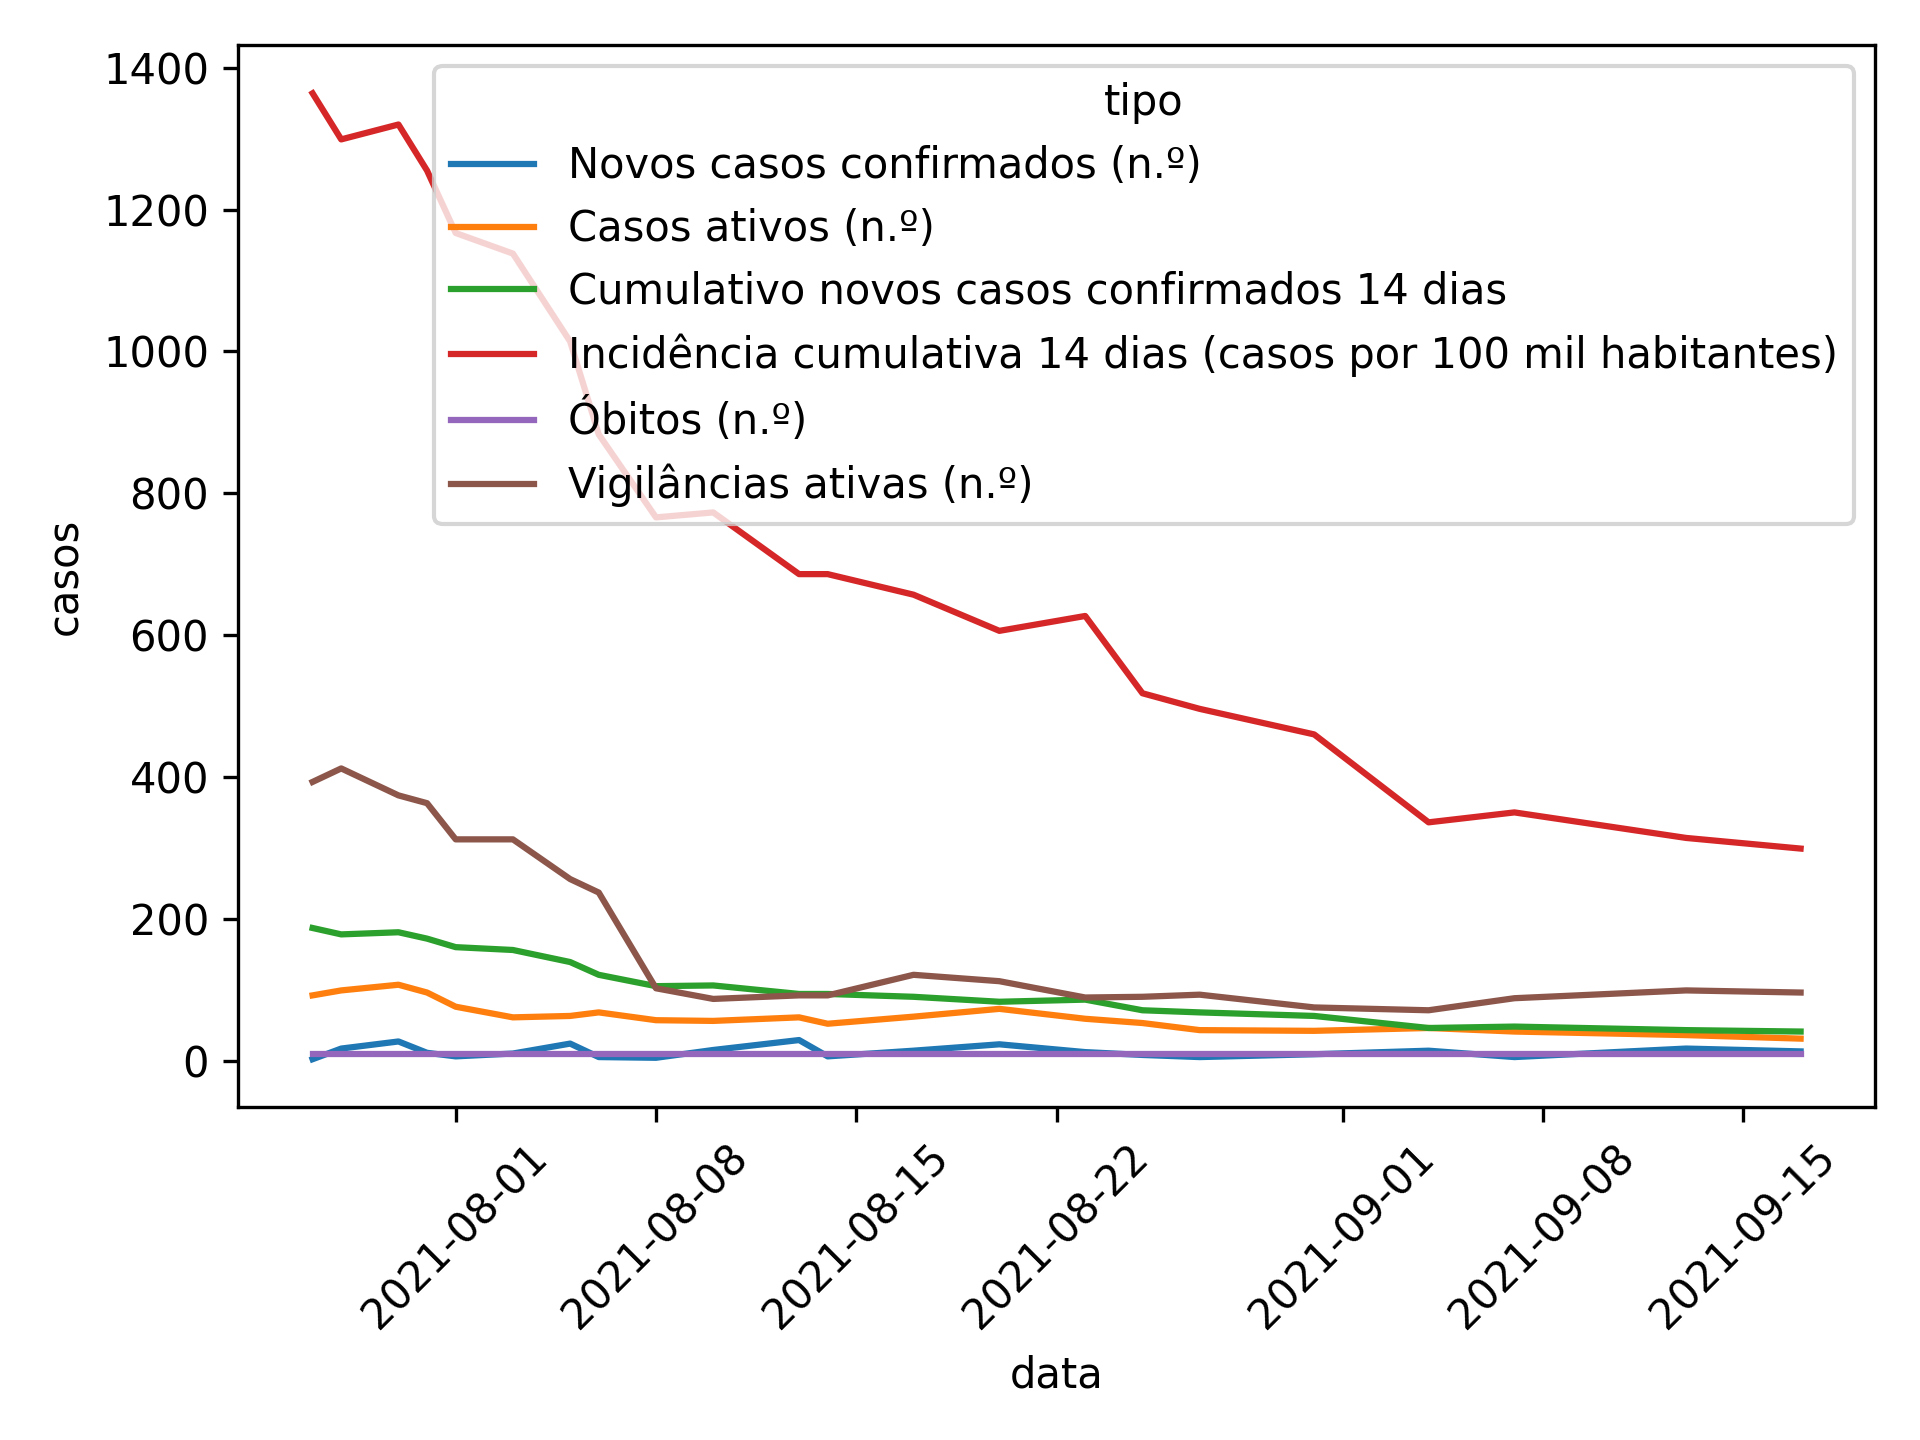
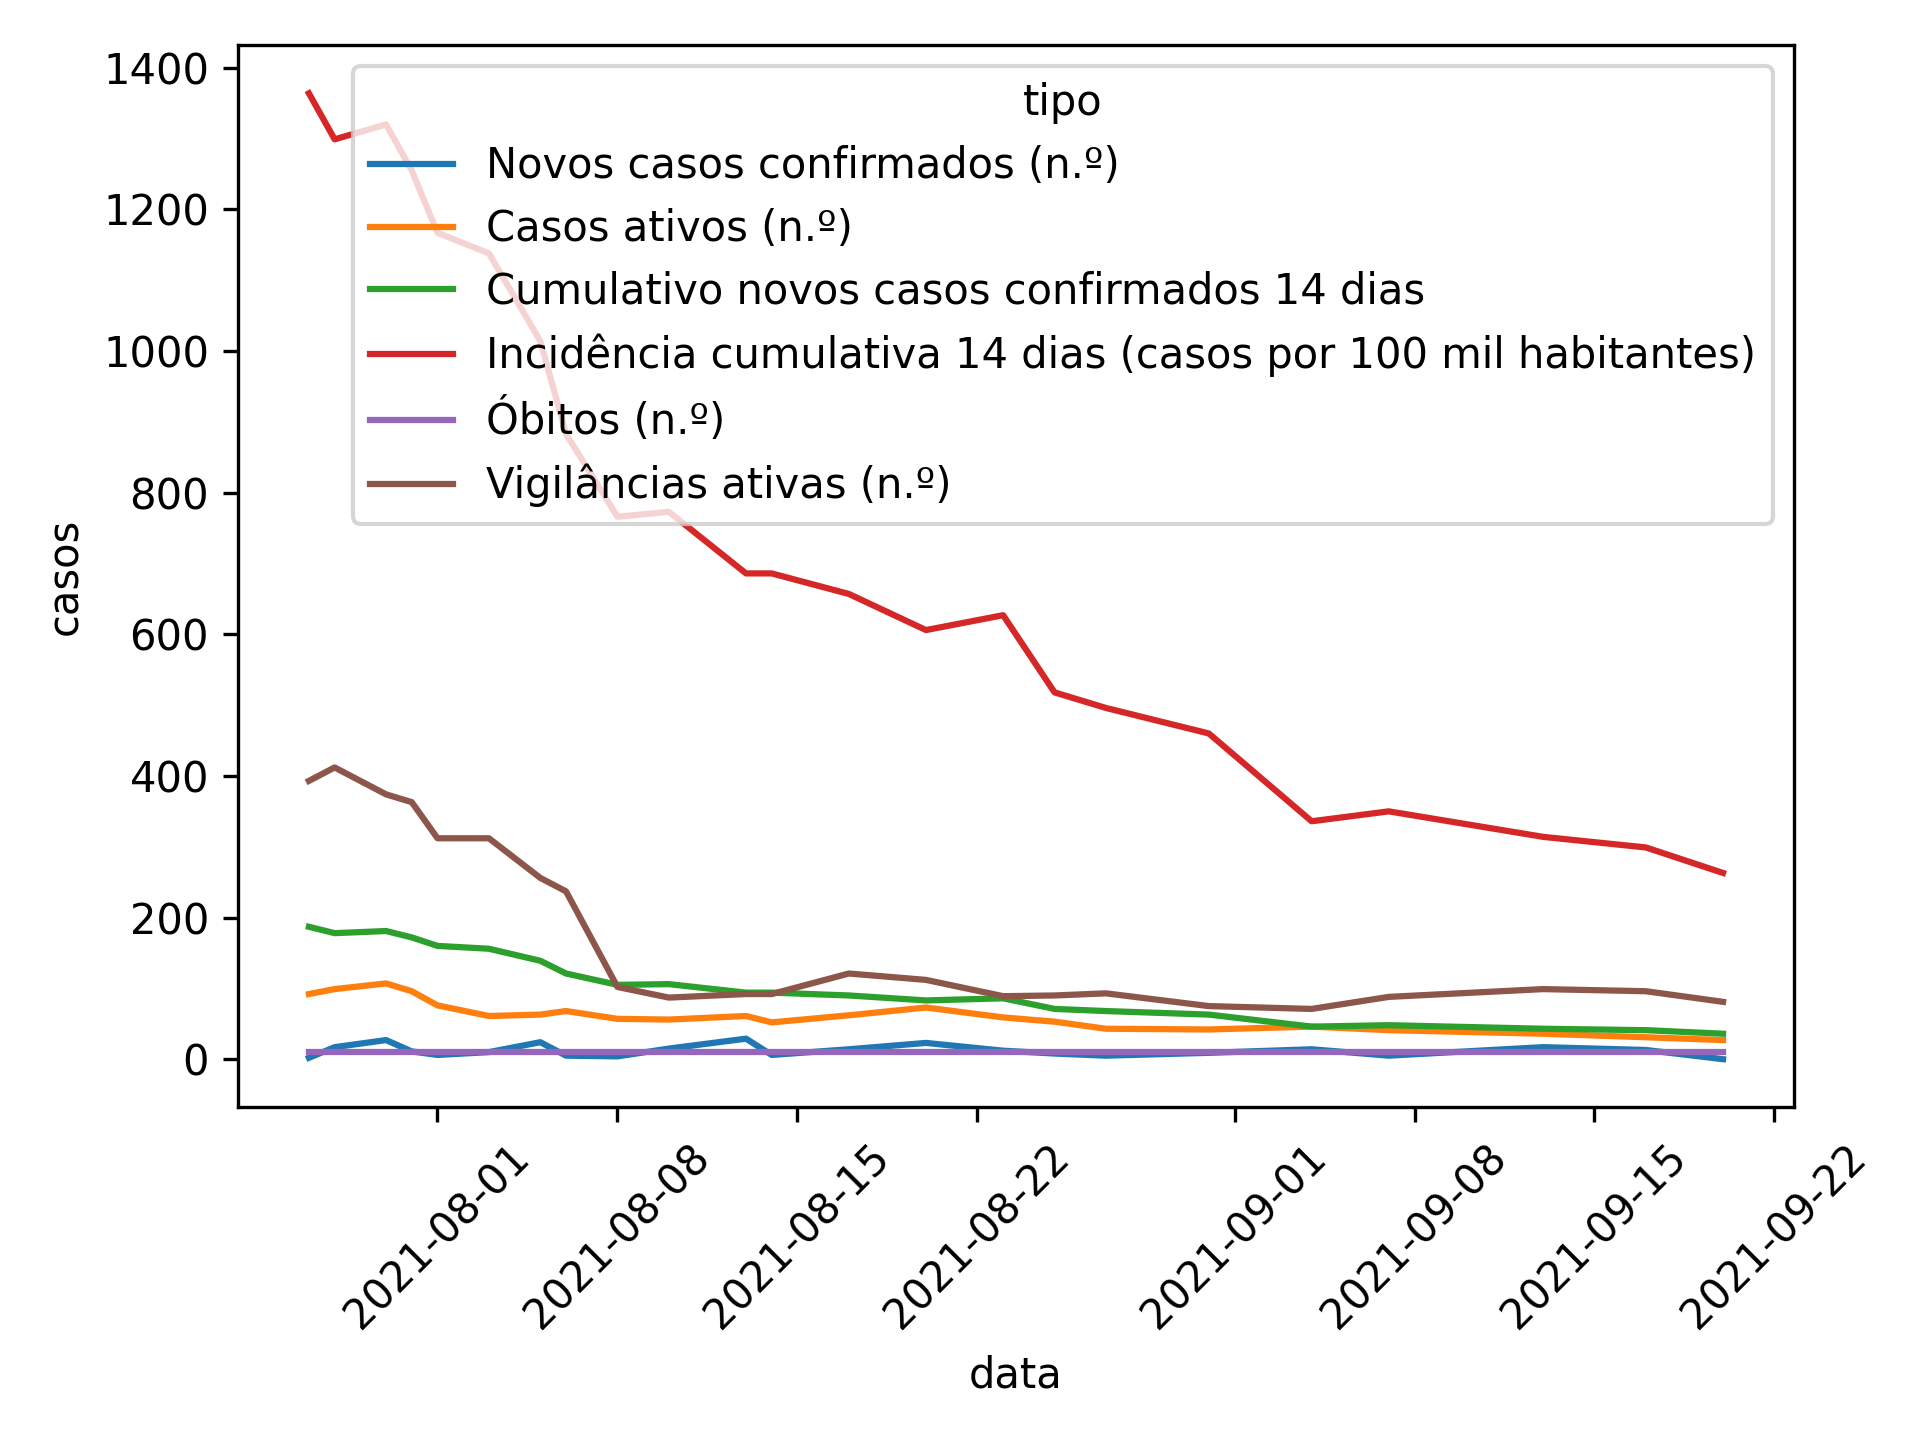
Apply automatic changes

diff --git a/README.md b/README.md
@@ -6,7 +6,6 @@
 
 | data       |   Novos casos confirmados (n.º) |   Casos ativos (n.º) |   Cumulativo novos casos confirmados 14 dias |   Incidência cumulativa 14 dias (casos por 100 mil habitantes) |   Óbitos (n.º) |   Vigilâncias ativas (n.º) |
 |:-----------|--------------------------------:|---------------------:|---------------------------------------------:|---------------------------------------------------------------:|---------------:|---------------------------:|
-| 06-08-2021 |                               5 |                   68 |                                          121 |                                                            883 |             10 |                        237 |
 | 08-08-2021 |                               4 |                   57 |                                          105 |                                                            766 |             10 |                        102 |
 | 10-08-2021 |                              15 |                   56 |                                          106 |                                                            773 |             10 |                         87 |
 | 13-08-2021 |                              29 |                   61 |                                           94 |                                                            686 |             10 |                         92 |
@@ -21,3 +20,4 @@
 | 07-09-2021 |                               5 |                   41 |                                           48 |                                                            350 |             10 |                         88 |
 | 13-09-2021 |                              17 |                   36 |                                           43 |                                                            314 |             10 |                         99 |
 | 17-09-2021 |                              13 |                   31 |                                           41 |                                                            299 |             10 |                         96 |
+| 20-09-2021 |                               0 |                   27 |                                           36 |                                                            263 |             10 |                         81 |
